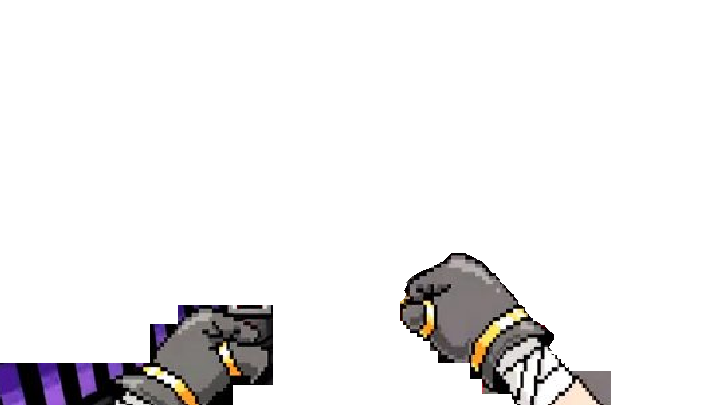
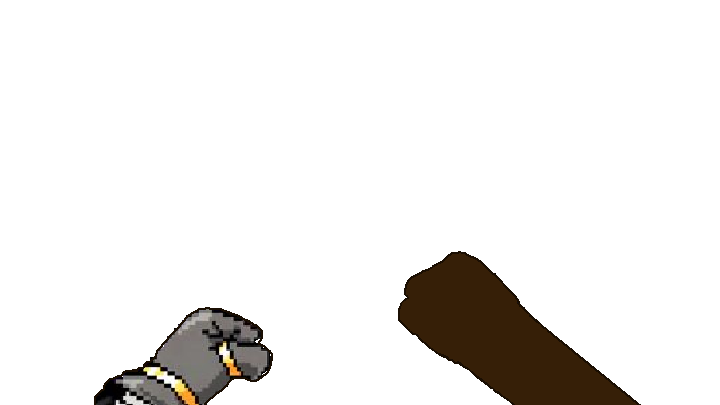
Added Weapon Modifications

Changed region(s): [[0.55, 0.6222, 0.8861, 1.0], [0.0, 0.8, 0.2444, 1.0], [0.2444, 0.7407, 0.3972, 1.0]]

diff --git a/Weapon.js b/Weapon.js
@@ -1,15 +1,14 @@
 class Weapon {
-    constructor(name, defaultAnimation, attackAnimation, reloadAnimation, isRanged, projectile, maxMagazineSize) {
+    constructor(name, defaultAnimation, attackAnimation, card, projectile, projectileCount, projectileAngle, manaCost) {
         this.name = name;
+        this.card = card;
         this.defaultAnimation = defaultAnimation;
         this.activeAnimation = defaultAnimation;
         this.attackAnimation = attackAnimation;
-        this.reloadAnimation = reloadAnimation;
-        this.isRanged = isRanged;
         this.projectile = projectile;
-        this.ammo = 0;
-        this.maxMagazineSize = maxMagazineSize;
-        this.magazineAmmo = 0;
+        this.projectileCount = projectileCount;
+        this.projectileAngle = projectileAngle;
+        this.manaCost = manaCost;
     }
 
     switchTo() {
@@ -24,33 +23,18 @@ class Weapon {
 
     attack(level, camera, audio) {
         //only shoot if weapon is ready and ammo is in the magazine
-        if (this.isReady() && (this.magazineAmmo > 0 || !this.isRanged)) {
+        if (this.isReady() && camera.playerMana - this.manaCost > 0) {
             audio.playWeaponAttack(this.name);
             this.activeAnimation.stop();
             this.activeAnimation = this.attackAnimation;
             this.activeAnimation.start();
-            if (this.isRanged)
-                this.magazineAmmo--;
+            camera.playerMana -= this.manaCost;
             if (this.projectile !== undefined) {
-                level.projectiles.push(this.projectile.copy(camera.x, camera.y, Math.cos(camera.angle), Math.sin(camera.angle), true));
-            }
-        }
-        else if (this.isReady() && (this.magazineAmmo <= 0 && this.isRanged)) {
-            this.reload(audio);
-        }
-    }
-
-    reload(audio) {
-        if (this.magazineAmmo !== this.maxMagazineSize && this.ammo > 0) {
-            audio.playReload();
-            this.activeAnimation.stop();
-            this.activeAnimation = this.reloadAnimation;
-            this.activeAnimation.start();
-            this.ammo -= this.maxMagazineSize - this.magazineAmmo;
-            this.magazineAmmo = this.maxMagazineSize;
-            if (this.ammo < 0) {
-                this.magazineAmmo += this.ammo;
-                this.ammo = 0;
+                for(let p = 0; p < this.projectileCount; p++) {
+                    let angleModifier = p % 2 == 0 ? p * -1 * this.projectileAngle : p * this.projectileAngle;
+                    level.projectiles.push(this.projectile.copy(camera.x, camera.y, Math.cos(camera.angle + angleModifier), Math.sin(camera.angle + angleModifier), true));
+                }
+                
             }
         }
     }
@@ -77,9 +61,7 @@ class Weapon {
         }
     }
 
-    copy(ammo) {
-        let weapon = new Weapon(this.name, this.defaultAnimation.copy(), this.attackAnimation.copy(), this.reloadAnimation.copy(), this.isRanged, this.projectile, this.maxMagazineSize);
-        weapon.ammo = ammo;
-        return weapon;
+    copy(projectile, projectileCount, projectileAngle, manaCost) {
+        return new Weapon(this.name, this.defaultAnimation.copy(), this.attackAnimation.copy(), this.card, projectile, projectileCount, projectileAngle, manaCost);
     }
 }

diff --git a/Enemy.js b/Enemy.js
@@ -1,7 +1,7 @@
 //import { Billboard } from "./Billboard";
 
 class Enemy extends Billboard {
-    constructor(name, maxLife, speed, range, isStationary, projectile, walkAnimation, attackAnimation, destroyAnimation, x, y) {
+    constructor(name, maxLife, speed, range, isStationary, projectile, walkAnimation, attackAnimation, destroyAnimation, resistLightning, resistFire, resistBlunt, resistSlash, x, y) {
         super(walkAnimation, x, y);
         this.name = name;
         this.life = maxLife;
@@ -14,6 +14,11 @@ class Enemy extends Billboard {
         this.destroyAnimation = destroyAnimation;
         this.isHit = false;
 
+        this.resistLightning = resistLightning;
+        this.resistFire = resistFire;
+        this.resistBlunt = resistBlunt;
+        this.resistSlash = resistSlash;
+
         this.maxViewRange = 20;
         this.maxAttackRange = range;
     }
@@ -24,7 +29,23 @@ class Enemy extends Billboard {
         for (let p = 0; p < level.projectiles.length; p++) {
             if (level.projectiles[p].playerOwned && level.projectiles[p].isInside(this)) {
                 this.hasSeenCamera = true;
-                this.life -= level.projectiles[p].damage;
+                let resist = 0;
+                switch(level.projectiles[p].damageType) {
+                    case LIGHTNING:
+                        resist = this.resistLightning;
+                        break;
+                    case BLUNT:
+                        resist = this.resistBlunt;
+                        break;
+                    case SLASH:
+                        resist = this.resistSlash;
+                        break;
+                    case FIRE:
+                        resist = this.resistFire;
+                        break;
+                }
+
+                this.life -= (level.projectiles[p].minDamage + Math.random() * level.projectiles[p].maxDamage) * (1 - resist);
                 this.isHit = true;
                 setTimeout((enemy) => {enemy.isHit = false;}, 100, this);
                 level.projectiles[p].hitWall = true;
@@ -120,6 +141,7 @@ class Enemy extends Billboard {
     }
 
     copy(x, y) {
-        return new Enemy(this.name, this.maxLife, this.speed, this.maxAttackRange, this.isStationary, this.projectile, this.defaultAnimation.copy(), this.attackAnimation.copy(), this.destroyAnimation.copy(), x, y);
+        return new Enemy(this.name, this.maxLife, this.speed, this.maxAttackRange, this.isStationary, 
+            this.projectile, this.defaultAnimation.copy(), this.attackAnimation.copy(), this.destroyAnimation.copy(), this.resistLightning, this.resistFire, this.resistBlunt, this.resistSlash, x, y);
     }
 }

diff --git a/Projectile.js b/Projectile.js
@@ -1,5 +1,5 @@
 class Projectile extends Billboard {
-    constructor(animation, x, y, directionX, directionY, speed, maxDistance, damage) {
+    constructor(animation, x, y, directionX, directionY, speed, maxDistance, minDamage, maxDamage, damageType) {
         super(animation, x, y);
         this.startX = x;
         this.startY = y;
@@ -9,7 +9,9 @@ class Projectile extends Billboard {
         this.maxDistance = maxDistance;
         this.hitWall = false;
         this.playerOwned = false;
-        this.damage = damage;
+        this.minDamage = minDamage;
+        this.maxDamage = maxDamage;
+        this.damageType = damageType;
     }
 
     update(level, camera, audio) {
@@ -21,7 +23,24 @@ class Projectile extends Billboard {
 
         if (!this.playerOwned && camera.isInside(this.x, this.y)) {
             this.hitWall = true;
-            camera.playerHealth -= this.damage;
+
+            let resist = 0;
+            switch(this.damageType) {
+                case LIGHTNING:
+                    resist = this.resistLightning;
+                    break;
+                case BLUNT:
+                    resist = this.resistBlunt;
+                    break;
+                case SLASH:
+                    resist = this.resistSlash;
+                    break;
+                case FIRE:
+                    resist = this.resistFire;
+                    break;
+            }
+
+            camera.playerHealth -= (this.minDamage + Math.random()) * this.maxDamage * (1 - resist);
             audio.playPain();
         }
 
@@ -34,11 +53,15 @@ class Projectile extends Billboard {
     }
 
     copy(x, y, directionX, directionY, playerOwned) {
-        let projectile = new Projectile(this.defaultAnimation.copy(), x, y, directionX, directionY, this.speed, this.maxDistance, this.damage);
+        let projectile = new Projectile(this.defaultAnimation.copy(), x, y, directionX, directionY, this.speed, this.maxDistance, this.minDamage, this.maxDamage, this.damageType);
         if (playerOwned !== undefined) {
             projectile.playerOwned = playerOwned;
         }
         return projectile;
+    }
+
+    copyBase(minDamage, maxDamage, damageType) {
+        return new Projectile(this.defaultAnimation.copy(), this.x, this.y, this.directionX, this.directionY, this.speed, this.maxDistance, minDamage, maxDamage, damageType);
     }
     
 }

diff --git a/Camera.js b/Camera.js
@@ -1,6 +1,6 @@
 class Camera
 {
-  constructor(startX, startY, startAngle, fov, speed, defaultWeapon)
+  constructor(startX, startY, startAngle, fov, speed, defaultWeapons)
   {
     this.x = startX;
     this.y = startY;
@@ -10,15 +10,19 @@ class Camera
     this.height = 16;
     this.isStrafing = false;
 
-    this.activeWeapon = defaultWeapon;
+    this.activeWeapon = defaultWeapons[0];
     if (this.activeWeapon)
       this.activeWeapon.switchTo();
-    this.weapons = [ defaultWeapon ];
+    this.weapons = defaultWeapons;
     this.playerMaxHealth = 20;
     this.playerMaxMana = 20;
     this.myTurn = true;
     this.playerHealth = this.playerMaxHealth;
     this.playerMana = this.playerMaxMana;
+    this.resistLightning = 0;
+    this.resistFire = 0;
+    this.resistBlunt = 0;
+    this.resistSlash = 0;
     this.hudBoxImage = document.getElementById("hud");
   }
 
@@ -69,19 +73,17 @@ class Camera
   }
 
   handleKeyUp(keyCode) {
-    //switch weapons on F
-    if (this.activeWeapon && this.activeWeapon.isReady() && keyCode == 70) {
-      let requestedWeaponIndex = this.weapons.indexOf(this.activeWeapon) + 1;
-      if (this.weapons.length <= requestedWeaponIndex) {
-        this.activeWeapon.stopAttack();
-        this.weapons[0].switchTo();
-        this.activeWeapon = this.weapons[0];
-      }
-      else {
-        this.activeWeapon.stopAttack();
-        this.weapons[requestedWeaponIndex].switchTo();
-        this.activeWeapon = this.weapons[requestedWeaponIndex];
-      }
+    let weaponSlot = 0;
+    let buttonPressed = false;
+    if (keyCode >= 49 || keyCode <= 53) {
+      weaponSlot = keyCode - 49;
+      buttonPressed = true;
+    }
+
+    if (buttonPressed && this.activeWeapon && this.activeWeapon.isReady()) {
+      this.activeWeapon.stopAttack();
+      this.weapons[weaponSlot].switchTo();
+      this.activeWeapon = this.weapons[weaponSlot];
     }
   }
 

diff --git a/Main.js b/Main.js
@@ -10,10 +10,11 @@ class Main
     this.filter.type = "none";
     this.levelFactory = new LevelFactory(this.data);
     this.level = this.levelFactory.generateLevel();
-    this.level.loadData(this.data);
 
     this.activeCutscene = undefined;
-    this.camera = new Camera(this.level.startLocationX, this.level.startLocationY, 0, Math.PI * (6/18), 6, undefined);
+    let fistsProjectile = this.data.projectiles["punch"].copyBase(1, 3, BLUNT);
+    let fists = this.data.weapons["fists"].copy(fistsProjectile, 1, 0, 0);
+    this.camera = new Camera(this.level.startLocationX, this.level.startLocationY, 0, Math.PI * (6/18), 6, [fists, fists, fists, fists, fists]);
     this.rayCaster = new RayCaster(40);
     this.FPS = 30;
     this.fpsCounter = 0;
@@ -133,7 +134,12 @@ class Main
   restartGame() {
     this.startTime = new Date().getTime();
     this.camera.stopAllWeaponAnimations();
-    this.camera = new Camera(17, 67, 0, Math.PI * (6/18), 6, this.data.weapons["screwDriver"]);
+    this.level = this.levelFactory.generateLevel();
+
+    this.activeCutscene = undefined;
+    let fistsProjectile = this.data.projectiles["punch"].copyBase(1, 3, BLUNT);
+    let fists = this.data.weapons["fists"].copy(fistsProjectile, 1, 0, 0);
+    this.camera = new Camera(this.level.startLocationX, this.level.startLocationY, 0, Math.PI * (6/18), 6, [fists, fists, fists, fists, fists]);
     this.level = ApartmentLevel4.copy();
     this.level.loadData(this.data);
   }

diff --git a/Data.js b/Data.js
@@ -8,7 +8,10 @@ class Data {
             "empty",
             "water",
             "statue",
-            "teleport"
+            "teleport",
+            "fists",
+            "card",
+            "punch"
         ];
     }
 
@@ -51,6 +54,12 @@ class Data {
         this.animations["statue"] = new Animation(this.textures["statue"], 64, 128, 1, 0, false);
         this.animations["teleport"] = new Animation(this.textures["teleport"], 128, 128, 3, 350, true);
 
+        //weapons
+        this.animations["fistsIdle"] = new Animation(this.textures["fists"], 702, 405, 1, 0, true);
+
+        //projectiles
+        this.animations["punch"] = new Animation(this.textures["punch"], 32, 32, 1, 0, true);
+
         //cutscenes
         this.animations["death_cutscene"] = new Animation(this.textures["death_cutscene"], 240, 135, 6, 800, false);
     }
@@ -76,6 +85,8 @@ class Data {
 
     createProjectiles() {
         this.projectiles = {};
+
+        this.projectiles["punch"] = new Projectile(this.animations["punch"], 0, 0, 0, 0, 1, 2, 0, 0, BLUNT);
     }
 
     createPowerups() {
@@ -88,6 +99,8 @@ class Data {
 
     createWeapons() {
         this.weapons = {};
+
+        this.weapons["fists"] = new Weapon("Fists", this.animations["fistsIdle"], this.animations["fistsIdle"], this.textures["card"], undefined, 0, 0, 0);
     }
 
     createCutscenes() {

diff --git a/index.html b/index.html
@@ -26,9 +26,12 @@
       <img src="./resources/teleport.png" />
       <img id="menuBackground" src="./resources/backgroundMenu.png" />
       <img id="card" src="./resources/card.png" />
+      <img src="./resources/fists.png"/>
+      <img src="./resources/punch.png"/>
     </div>
   </body>
 </html>
+<script src="Constants.js"></script>
 <script src="AudioHandler.js"></script>
 <script src="Main.js"></script>
 <script src="Camera.js"></script>

diff --git a/AudioHandler.js b/AudioHandler.js
@@ -45,7 +45,7 @@ class AudioHandler {
                 this.playDrill();
                 break;
             default:
-                this.playShot();
+                //this.playShot();
         }
     }
 

diff --git a/Constants.js b/Constants.js
@@ -1,0 +1,5 @@
+//Damage Types
+LIGHTNING = 0;
+FIRE = 1;
+BLUNT = 2;
+SLASH = 3;
